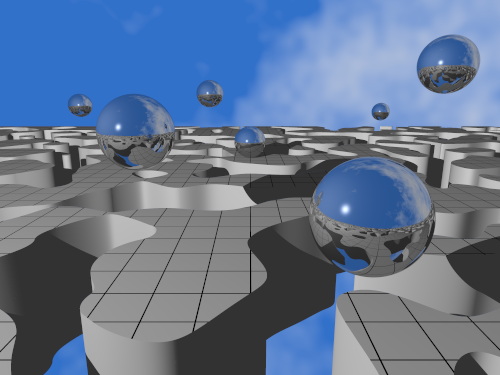
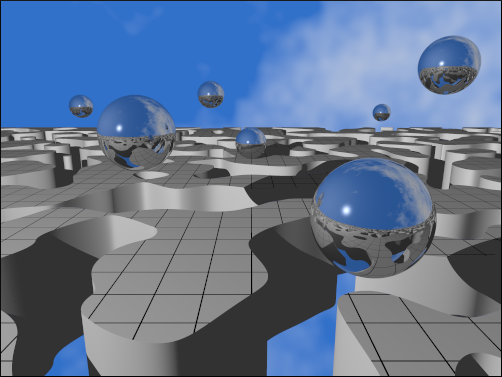
add slidehsow image borders

diff --git a/about.html b/about.html
@@ -34,11 +34,16 @@ independent mathematics research firm.
 <p>
 My research interests revolve around category theory,
 logic, universal algebra, and topology.  Although I am a pure mathematician at heart,
-I will also work on applied topics which interest me.
+I will sometimes work on applied topics which interest me.
 </p>
 <p>
-Outside of mathematics, I am fascinated by radio/telecom,
-HVAC/piping systems, fire protection, and birds.
+Outside of mathematics, I am fascinated by:
+<ul>
+<li>Radio engineering, telecom</li>
+<li>HVAC and piping systems</li>
+<li>Fire protection</li>
+<li>Birds</li>
+</ul>
 </p>
 <b>Curriculum Vitae:</b> [<a href="misc/cv_mkukla.pdf">pdf</a>]
 </p>